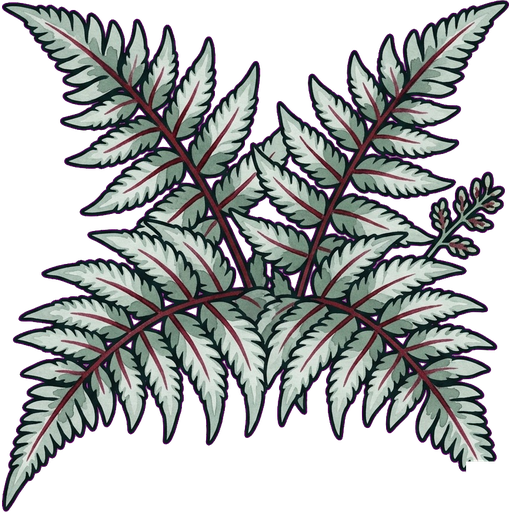
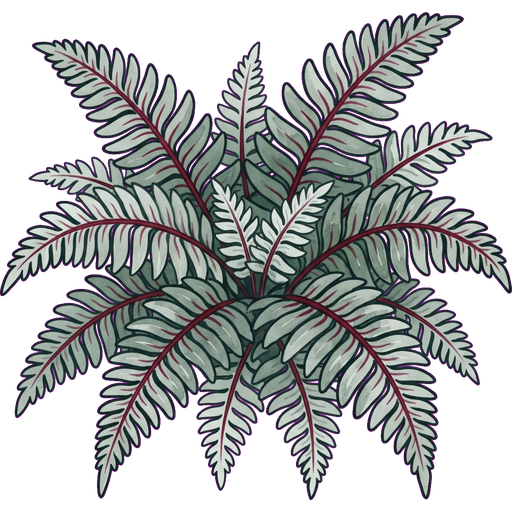
Sticker: replace Japanese Painted Fern with bushy version (15% erase)

diff --git a/tools/sticker-generate-one.py b/tools/sticker-generate-one.py
@@ -91,7 +91,7 @@ PLANT_LOOKUP = {
     "lady fern":         ("plant-fern_lady-fern",         "M",  256, "Fern / Groundcover", "plant", "mid green #4A8A3A, bright green #5AB83A, pale lime frond tips #A8D870, deep green #2A5A1A, dark outline #0A1A0A", "Bushy spreading rosette of elegantly arched pinnate fronds, each frond finely divided into delicate opposite leaflets with slightly toothed edges, fronds radiating gracefully outward from the centre in a full bushy clump."),
     "male fern":         ("plant-fern_male-fern",         "L",  384, "Fern / Groundcover", "plant", "deep forest green #2A6A3A, mid green #4A8A5A, bright green #5AB83A, pale green undersides #8ABF6A, dark outline #0A1A0A", "Robust upright vase of large pinnate fronds, each frond broadly lance-shaped with rounded lobed pinnules, fronds arching outward from the centre in a semi-evergreen clump."),
     "ostrich fern":      ("plant-fern_ostrich-fern",      "L",  384, "Fern / Groundcover", "plant", "vivid green #5AB83A, deep green #2A6A3A, bright lime-green #7AC83A, pale green #8ABF6A, dark outline #0A1A0A", "Iconic vase-shaped fern with large broadly lance-shaped fronds that are wide in the middle and narrow at both ends, fronds spreading dramatically outward like a shuttlecock or ostrich plume."),
-    "japanese painted fern": ("plant-fern_japanese-painted-fern", "M", 256, "Fern / Groundcover", "plant", "silver-grey #A8B8B0, pewter-green #7A9A8A, burgundy-red midrib #8B2A2A, pale silver fronds #C8D8D0, dark outline #0A1818", "Arching spreading fern with distinctive silver-grey fronds marked with a deep burgundy-red midrib, fronds are pinnate and elegantly arched, giving a painted metallic appearance."),
+    "japanese painted fern": ("plant-fern_japanese-painted-fern", "M", 256, "Fern / Groundcover", "plant", "silver-grey #A8B8B0, pewter-green #7A9A8A, burgundy-red midrib #8B2A2A, pale silver fronds #C8D8D0, dark outline #0A1818", "Bushy fern with many fronds, distinctive silver-grey fronds marked with a deep burgundy-red midrib, fronds are pinnate and elegantly arched, full lush clump radiating from centre, giving a painted metallic appearance."),
     "hart's tongue fern": ("plant-fern_harts-tongue-fern", "M", 256, "Fern / Groundcover", "plant", "deep glossy green #1A6A3A, bright green #4AAF5A, pale green #8ABF6A, dark outline #0A1A0A", "Highly distinctive fern with undivided strap-shaped glossy green fronds arising from the centre in a rosette, each frond is a single uncut strap — no leaflets, no divisions — glossy and leathery."),
     "maidenhair fern":   ("plant-fern_maidenhair-fern",   "M",  256, "Fern / Groundcover", "plant", "bright green #5AB83A, mid green #4A8A3A, black wiry stems #1A0A0A, pale yellow-green #A8D870, dark outline #0A1A0A", "Dense bushy fern, plant centered and taking up 75% of the center of the image, slender black wiry stems bearing fan-shaped light green leaflets arranged in gentle arching fronds, lush full appearance like masses of green fans on black wire."),
     "soft shield fern":  ("plant-fern_soft-shield-fern",  "L",  384, "Fern / Groundcover", "plant", "mid green #4A8A3A, deep green #2A6A3A, bright green tips #6AAF5A, pale green undersides #8ABF6A, dark outline #0A1A0A", "Arching spreading fern with softly textured pinnate fronds, each frond has finely divided pinnules giving a lacy feathery appearance, fronds arch gently outward from the centre in a spreading clump."),
